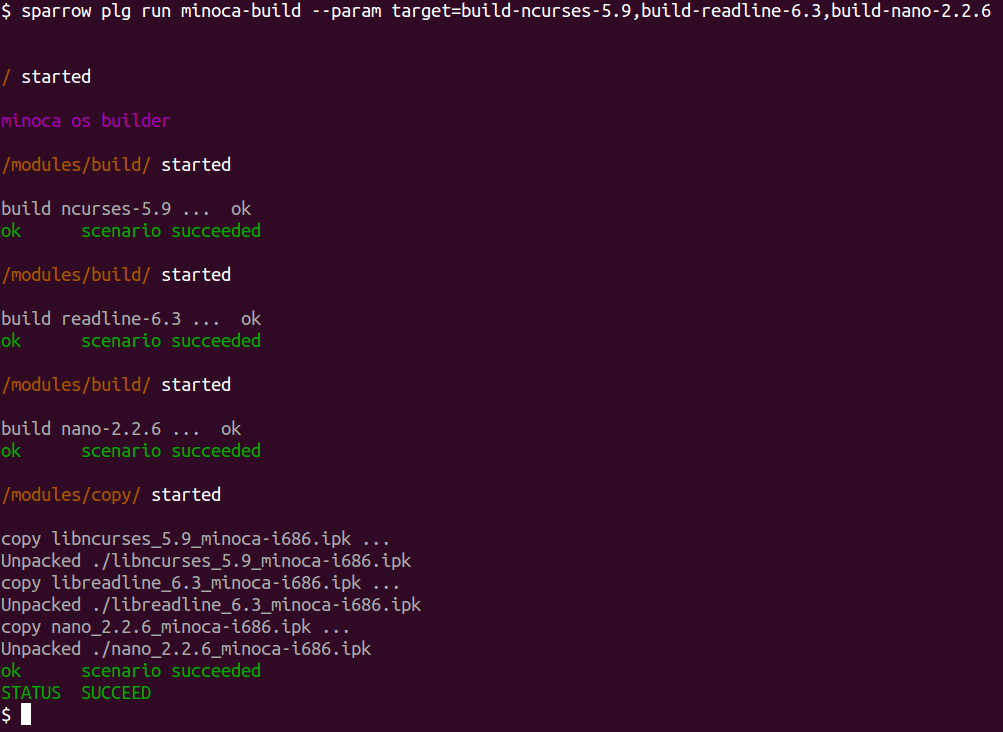
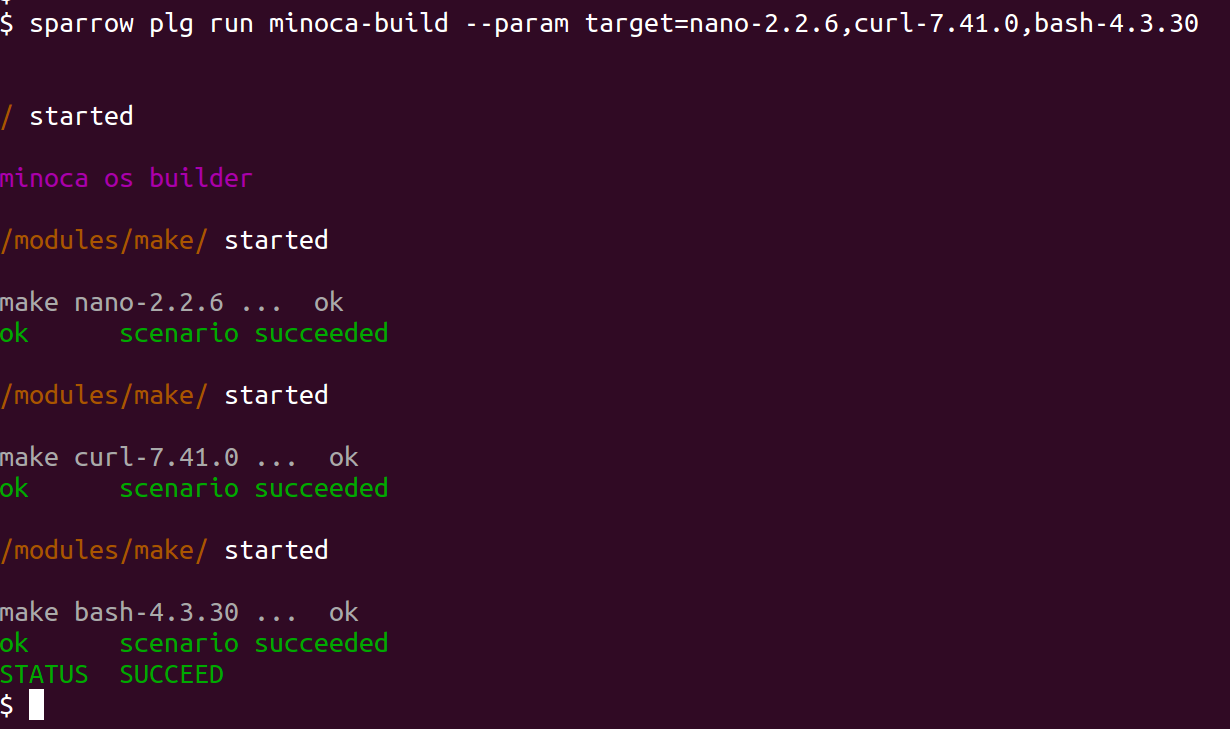
update image and add small fixes to RM

diff --git a/README.md b/README.md
@@ -74,7 +74,7 @@ You may define custom builds with either command line parameters.
 
 
     # Build nano editor, curl and bash
-    $ sparrow plg run minoca-build --param --param target=nano-2.2.6,curl-7.41.0,bash-4.3.30
+    $ sparrow plg run minoca-build --param target=nano-2.2.6,curl-7.41.0,bash-4.3.30
 
 Or using sparrow tasks:
 
@@ -112,7 +112,7 @@ Sometimes you need to rebuild os image, usually right after you get some package
     # Build my gear soft:
     $ sparrow plg run minoca-build --param target=nano-2.2.6,curl-7.41.0,bash-4.3.30
 
-    # Now I need to rebuild by image 
+    # Now I need to rebuild the image 
     $ sparrow plg run minoca-build --param target=image
 
 ## Tests
